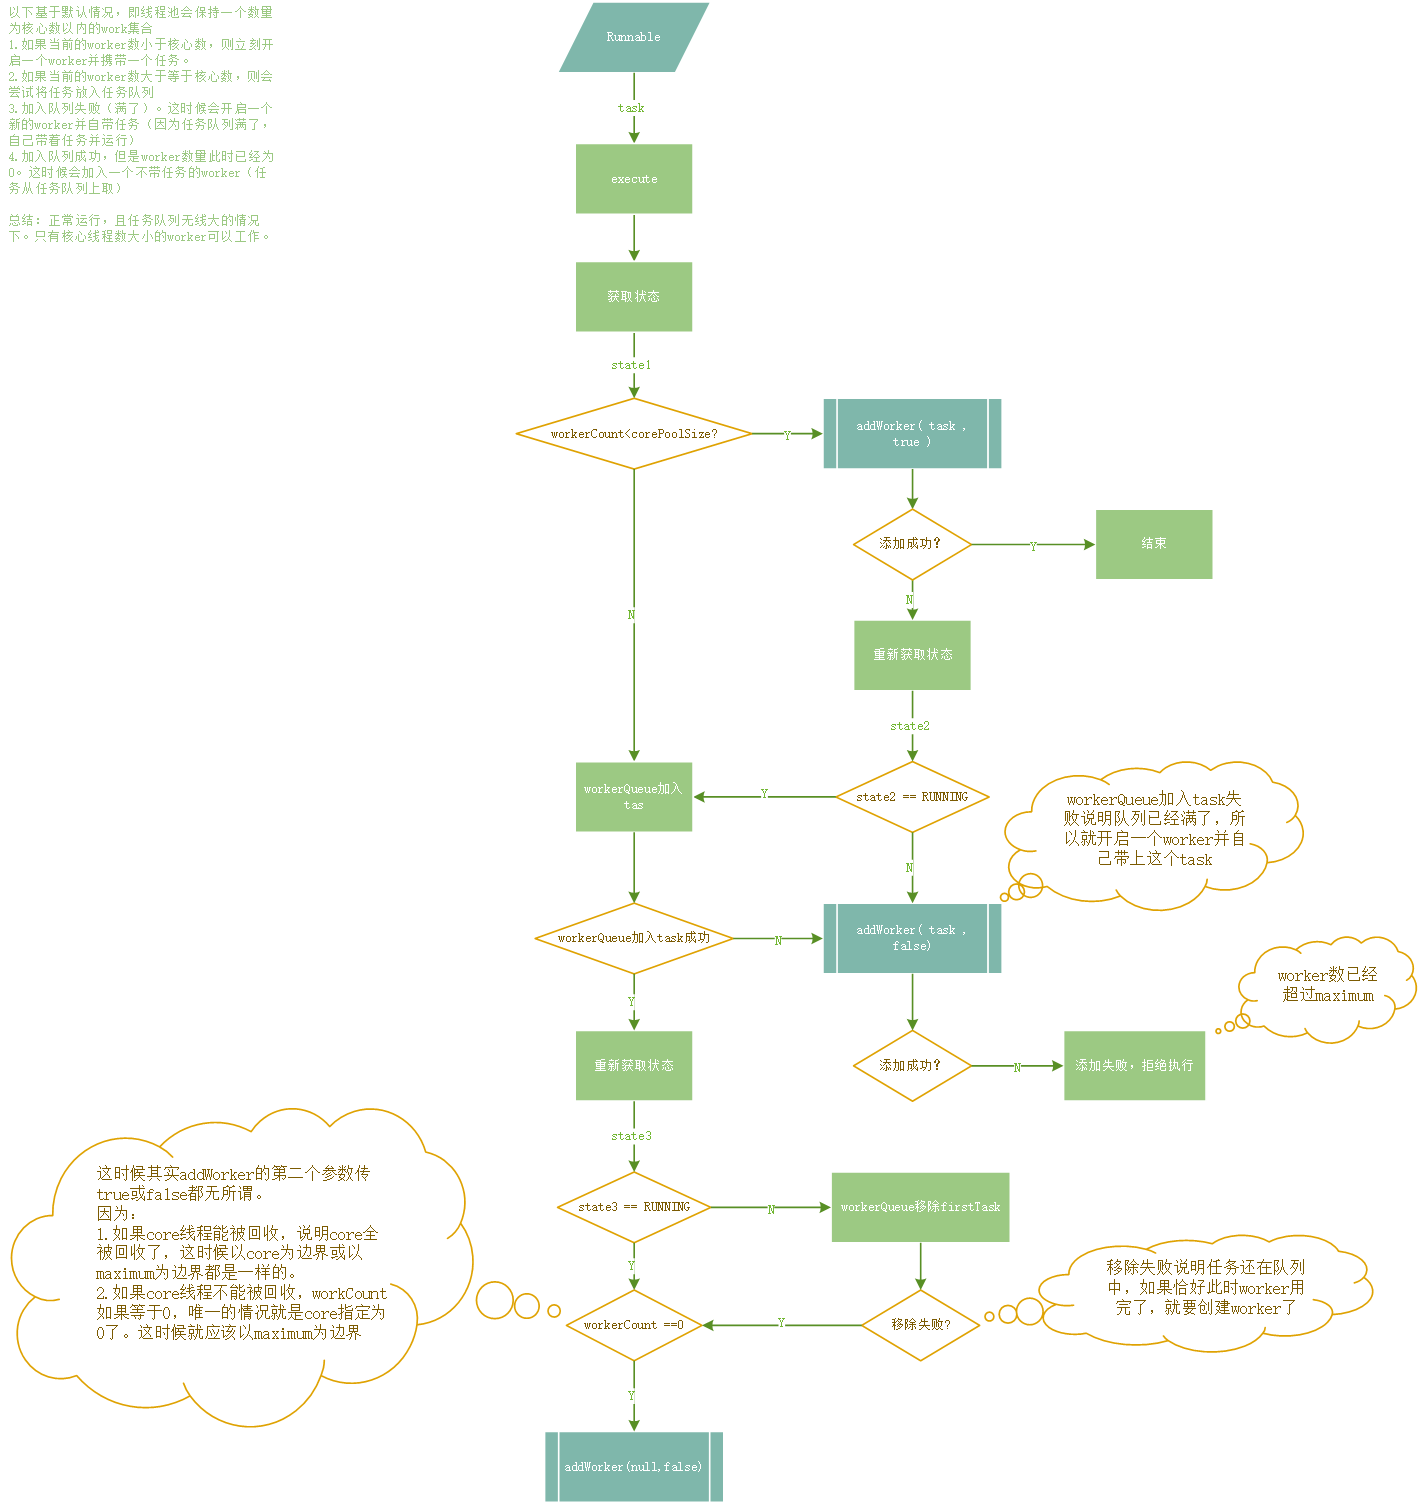
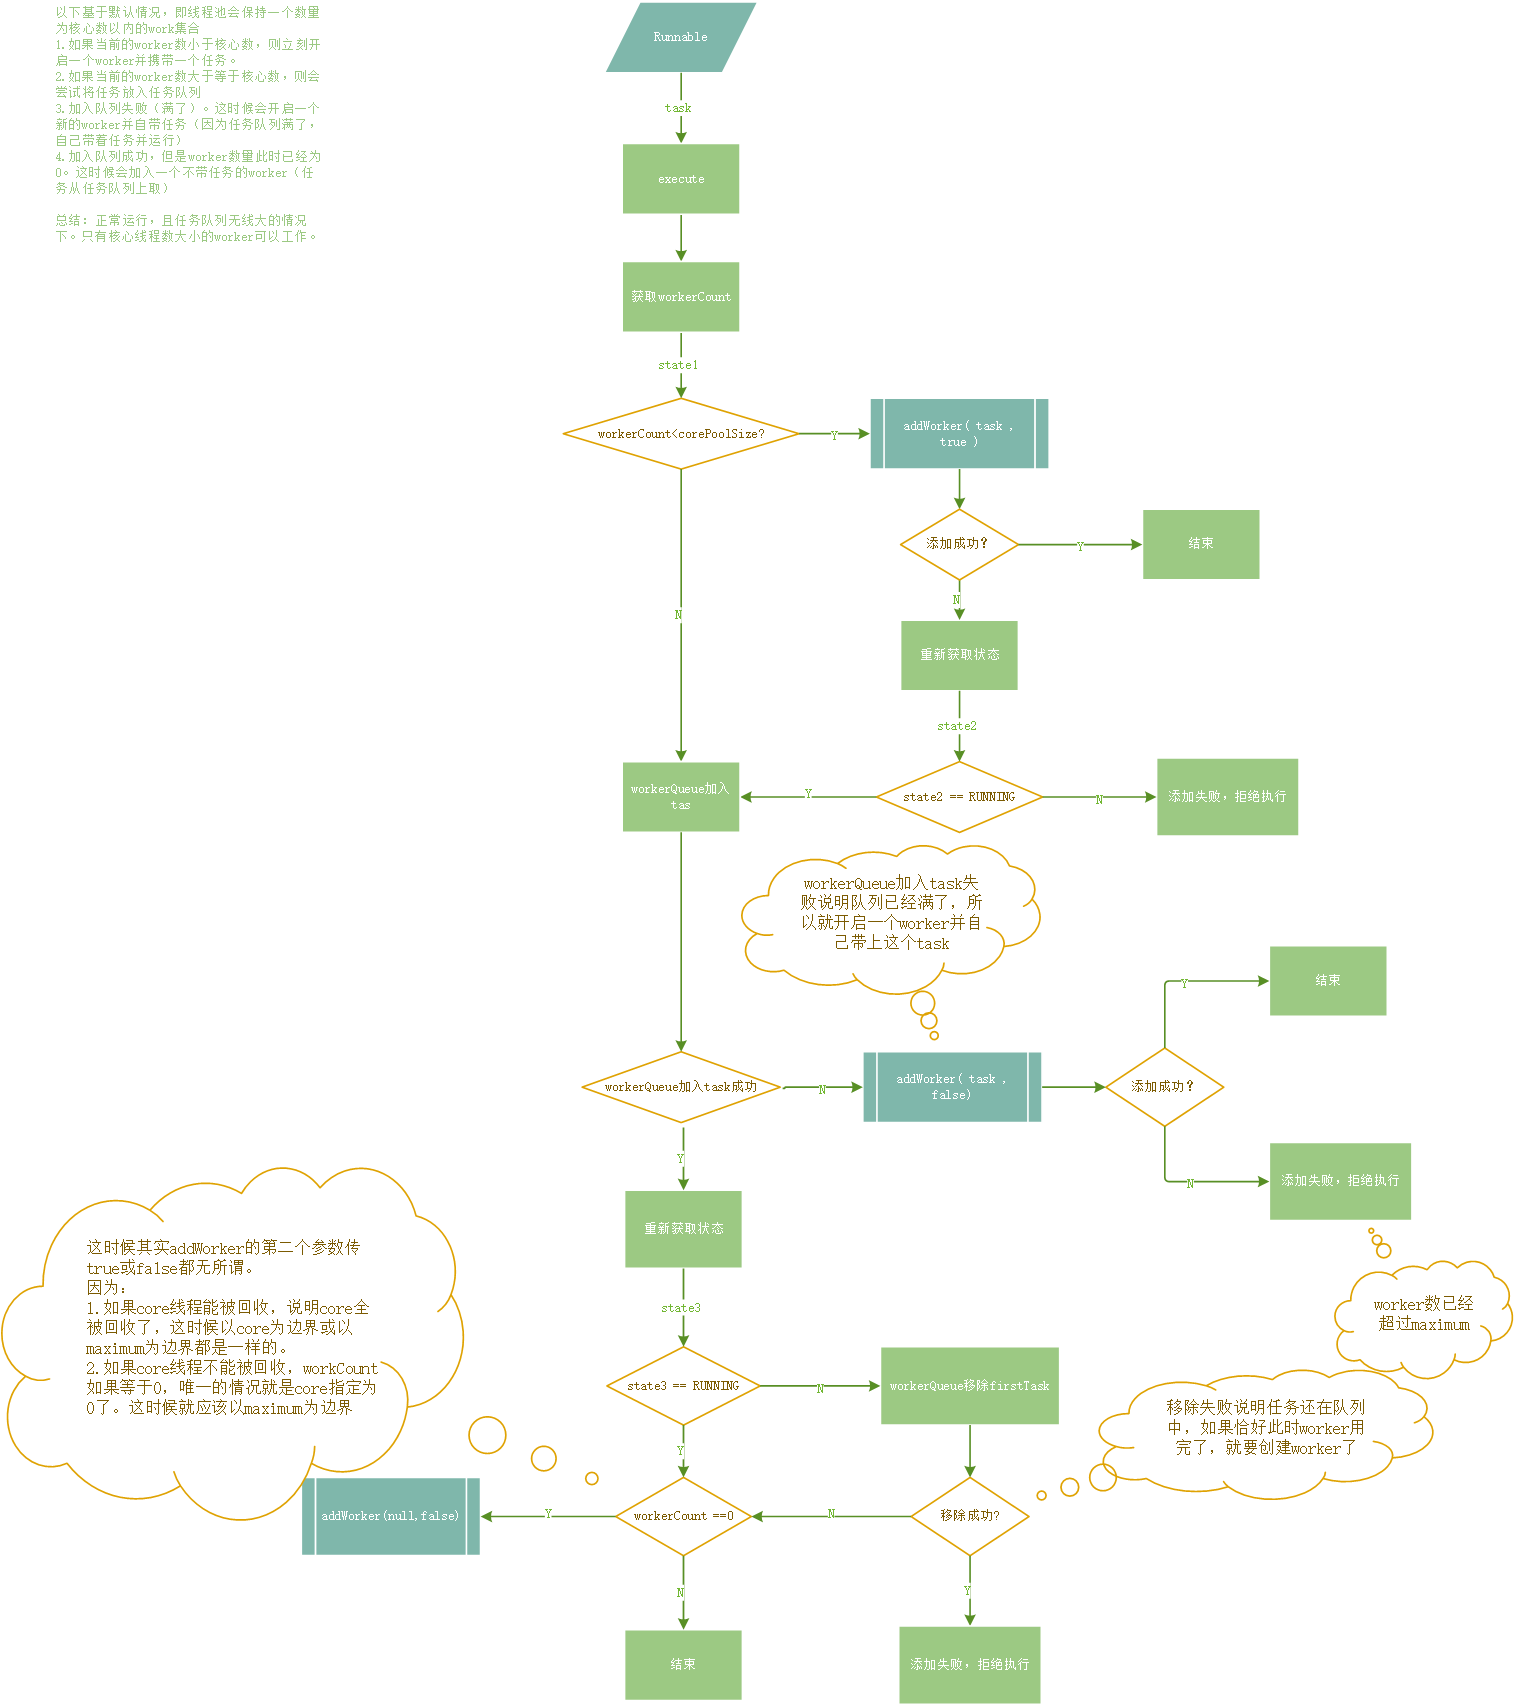
commit

diff --git a/_posts/2024-08-29-线程池原理.md b/_posts/2024-08-29-线程池原理.md
@@ -1,36 +1,94 @@
 ---
 title: 线程池原理分享
-date: 2024-09-02
+date: 2024-08-29
 ---
 ## 线程池是什么
-...
+线程是Java程序执行的最小单位,线程池就是管理一系列线程的资源池,提供了管理线程并且基于资源池内的线程执行多任务的功能。
+
 ## 为什么用线程池
-...
+在多任务的场景下，为了提升执行速度，通常会采取多线程并行处理的方式。这种情况下，线程的数量可能会膨胀到很夸张的地步，又或者说出现线程频繁创建销毁的情况。而系统所能提供的资源是有限的，特别是在移动端。线程的创建销毁和调度都会占用系统资源。而线程池可以做到维护多个线程执行任务。降低资源消耗，提高响应速度。
+
 ## 线程池的类型
-...
+
+* CachedThreadPool  
+```java
+public static ExecutorService newCachedThreadPool() {
+    return new ThreadPoolExecutor(
+        0, 
+        Integer.MAX_VALUE,
+        60L,
+        TimeUnit.SECONDS,
+        new SynchronousQueue<Runnable>()
+    );
+}
+```
+没有核心线程，但可以拥有不限数量的非核心线程。任务到来时，如果没有可用线程，会创建新的线程执行，如果有可用线程，则重用该线程执行。线程在空闲一段时间后，会自动终止。
+
+* FixedThreadPool  
+```java
+public static ExecutorService newFixedThreadPool(int nThreads) {
+    return new ThreadPoolExecutor(
+        nThreads,
+        nThreads,
+        0L, 
+        TimeUnit.MILLISECONDS,
+        new LinkedBlockingQueue<Runnable>());
+}
+```
+只拥有固定核心线程数量的线程。当所有核心线程都在工作的时候，新的任务会放到一个容量无限的队列中等待执行。
+
+* SingleThreadExecutor  
+跟FixedThreadPool类似，只拥有一个核心线程。
+
+* ...
 
 ## 线程池原理解析
+
 ### 线程池的状态
 * RUNNING  
-接受新的任务并处理队列的任务
+接受新的任务并处理队列的任务。
 
 * SHUTDOWN  
-不接受新的任务,但允许继续处理队列中的任务
+不接受新的任务,但允许继续处理队列中的剩下的任务和当前线程正在执行的任务。线程池调用shutdown方法会将状态置为SHUTDOWN。
 
 * STOP  
-不接受新的任务,不继续处理队列中的任务,并且终止正在执行的任务
+不接受新的任务,不继续处理队列中的任务,并且终止正在执行的任务。线程池调用shutdownNow方法会将状态置为STOP。
 
-* TIDYING  
-所有任务已经终止,执行线程数量为0
+* TERMINATED  
+所有任务已经终止,执行线程数量为0。
 
 ### 线程池的构造
+```java
+public ThreadPoolExecutor(
+    int corePoolSize,
+    int maximumPoolSize,
+    long keepAliveTime,
+    TimeUnit unit,
+    BlockingQueue<Runnable> workQueue,
+    ThreadFactory threadFactory,
+    RejectedExecutionHandler handler
+) {
+    ...
+}
+```
 * corePoolSize  
-是
-* maximumPoolSize
-* workQueue
-* keepAliveTime
-* threadFactory
-* handler
+核心线程数量：在核心线程数以内的线程在整个线程池的生命周期内是常驻的，核心线程的存在能提高线程池的响应速度。
+
+* maximumPoolSize  
+最大线程数量：指定了包括核心线程数的总线程数。核心线程数以外最大线程数以内的线程并不是常驻的，这部分线程在空闲时有一个最大存活时间。
+
+* keepAliveTime  
+核心线程数以外的空闲线程最大存活时间。
+
+* workQueue  
+任务队列：当当前线程数已经大于登录核心线程数，任务会尝试加入这个队列。这个队列是一个阻塞队列，就是说入列和出列有可以做到阻塞当前线程，线程池就是利用出列的阻塞维持核心线程。
+
+* threadFactory  
+构建线程的工厂类对象
+
+* handler  
+线程池拒绝执行任务的回调
+
 ### 任务的执行流程
 ```java
 public void execute(Runnable command) {
@@ -54,6 +112,8 @@ public void execute(Runnable command) {
         reject(command);
 }
 ```
+![流程图](/assets/images/thread_pool_execute.png)
+
 ### 增加Worker
 ```java
 private boolean addWorker(Runnable firstTask, boolean core) {
@@ -119,7 +179,9 @@ private boolean addWorker(Runnable firstTask, boolean core) {
     return workerStarted;
 }
 ```
-### Worker的运作
+![流程图](/assets/images/thread_pool_add_worker.png)
+
+### Worker的运行
 ```java
 final void runWorker(Worker w) {
     Thread wt = Thread.currentThread();
@@ -160,6 +222,46 @@ final void runWorker(Worker w) {
     }
 }
 ```
-### 线程池的终止
+![流程图](/assets/images/thread_pool_run_worker.png)
 
+### 获取执行任务
+```java
+private Runnable getTask() {
+    boolean timedOut = false; // Did the last poll() time out?
 
+    for (;;) {
+        int c = ctl.get();
+
+        // Check if queue empty only if necessary.
+        if (runStateAtLeast(c, SHUTDOWN)
+            && (runStateAtLeast(c, STOP) || workQueue.isEmpty())) {
+            decrementWorkerCount();
+            return null;
+        }
+
+        int wc = workerCountOf(c);
+
+        // Are workers subject to culling?
+        boolean timed = allowCoreThreadTimeOut || wc > corePoolSize;
+
+        if ((wc > maximumPoolSize || (timed && timedOut))
+            && (wc > 1 || workQueue.isEmpty())) {
+            if (compareAndDecrementWorkerCount(c))
+                return null;
+            continue;
+        }
+
+        try {
+            Runnable r = timed ?
+                workQueue.poll(keepAliveTime, TimeUnit.NANOSECONDS) :
+                workQueue.take();
+            if (r != null)
+                return r;
+            timedOut = true;
+        } catch (InterruptedException retry) {
+            timedOut = false;
+        }
+    }
+}
+```
+![流程图](/assets/images/thread_pool_get_task.png)
